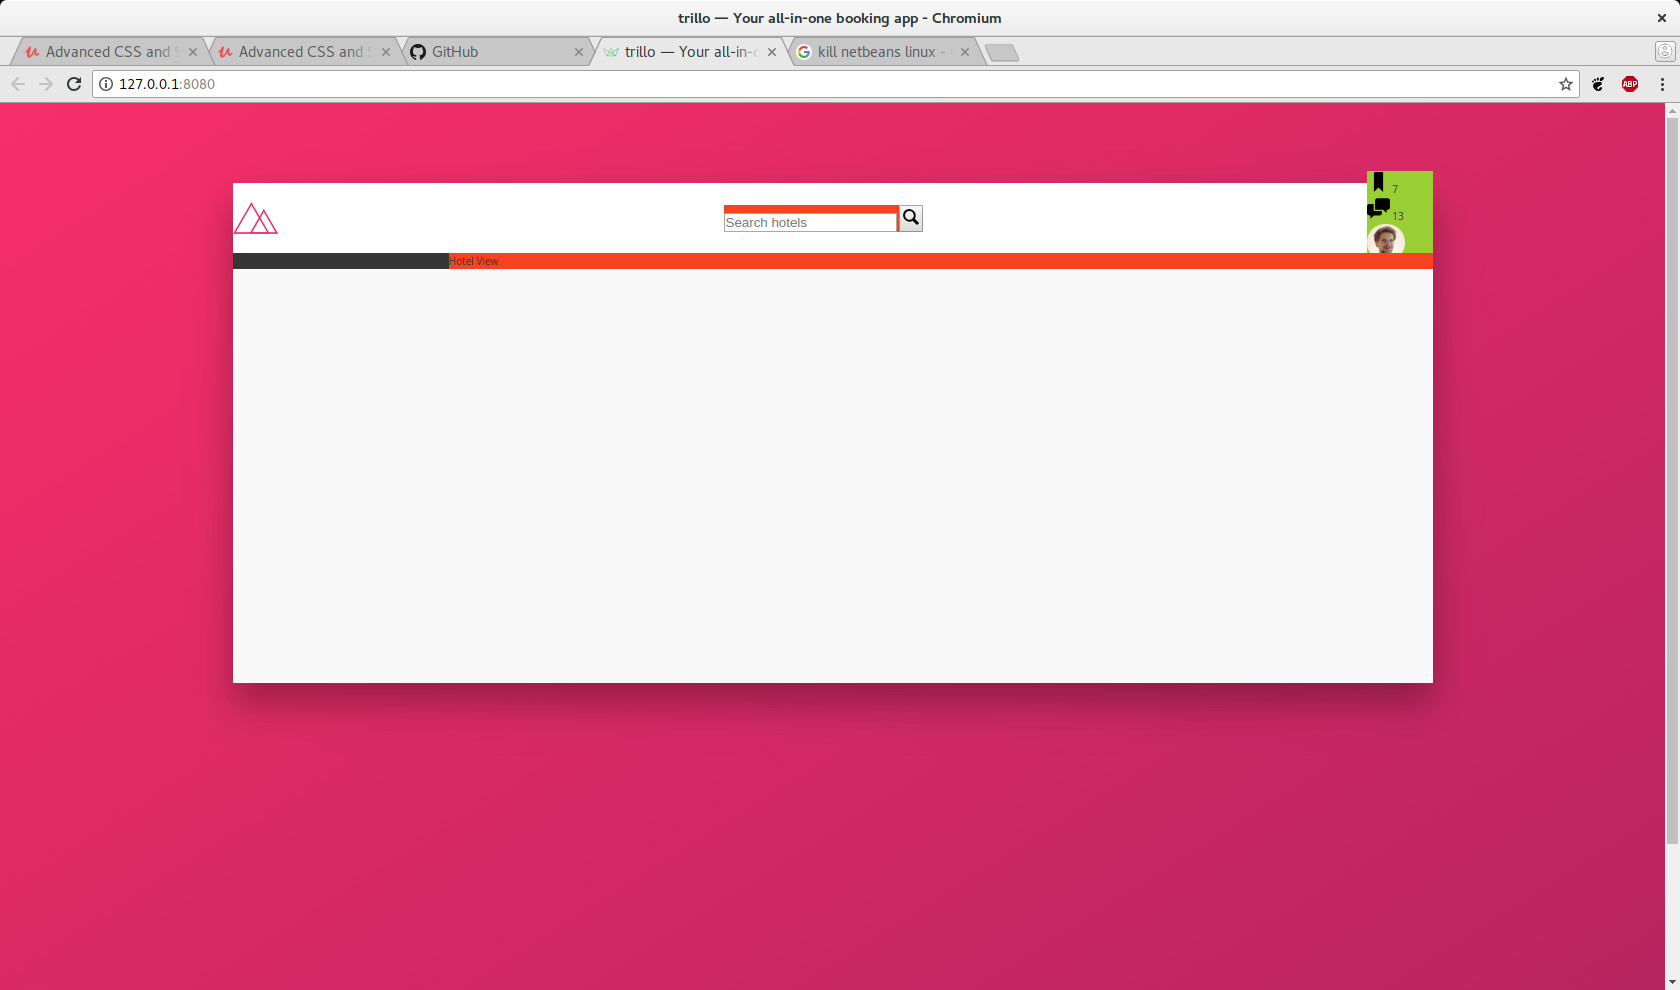
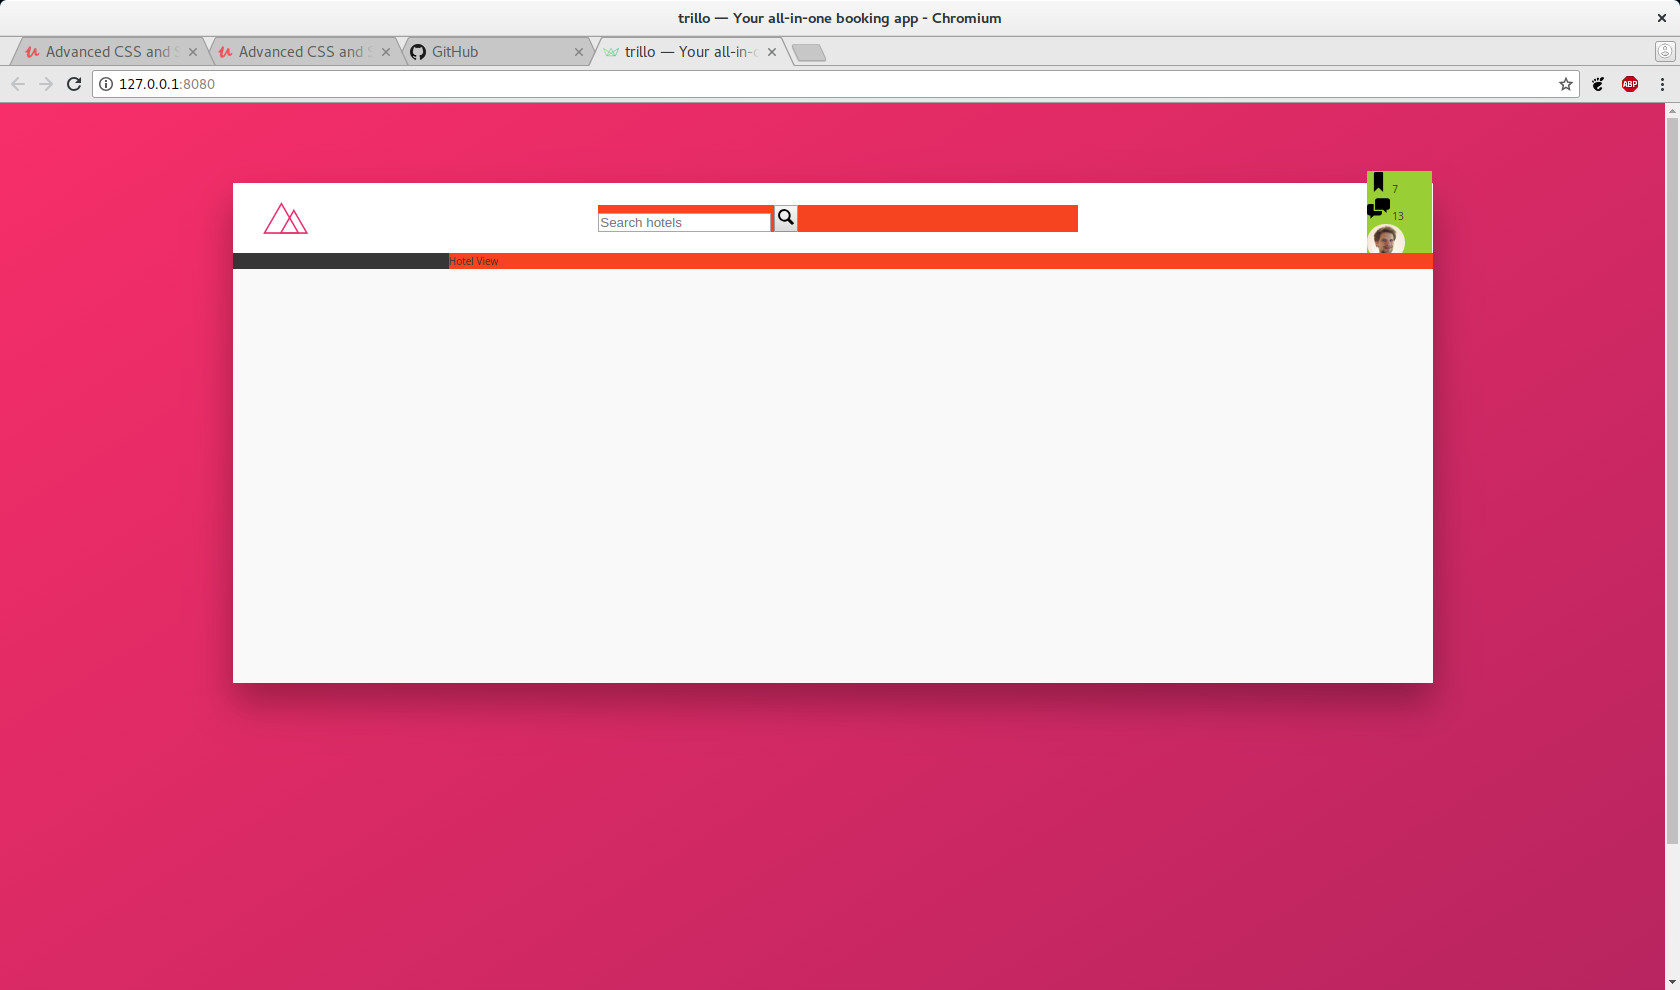
Style search input. Increase the width of the input on focus.

Changed region(s): [[0.3405, 0.1818, 0.65, 0.2424], [0.4643, 0.0303, 0.619, 0.0909], [0.1238, 0.2121, 0.1857, 0.2424]]

diff --git a/sass/_components.scss b/sass/_components.scss
@@ -12,7 +12,22 @@
   background-color: orangered;
   flex: 0 0 40%;
   &__input {
+    font-family: inherit;
+    font-size: inherit;
+    color: inherit;
+    background-color: var(--color-grey-light-2); 
+    border: none;
+    padding: .7rem 2rem;
+    border-radius: 100px;
+    transition: all .2s;
     
+    width: 90%;
+    
+    &:focus {
+      outline: none;
+      width: 100%;
+      background-color: var(--color-grey-light-3); 
+    }
   }
   
   &__button {
